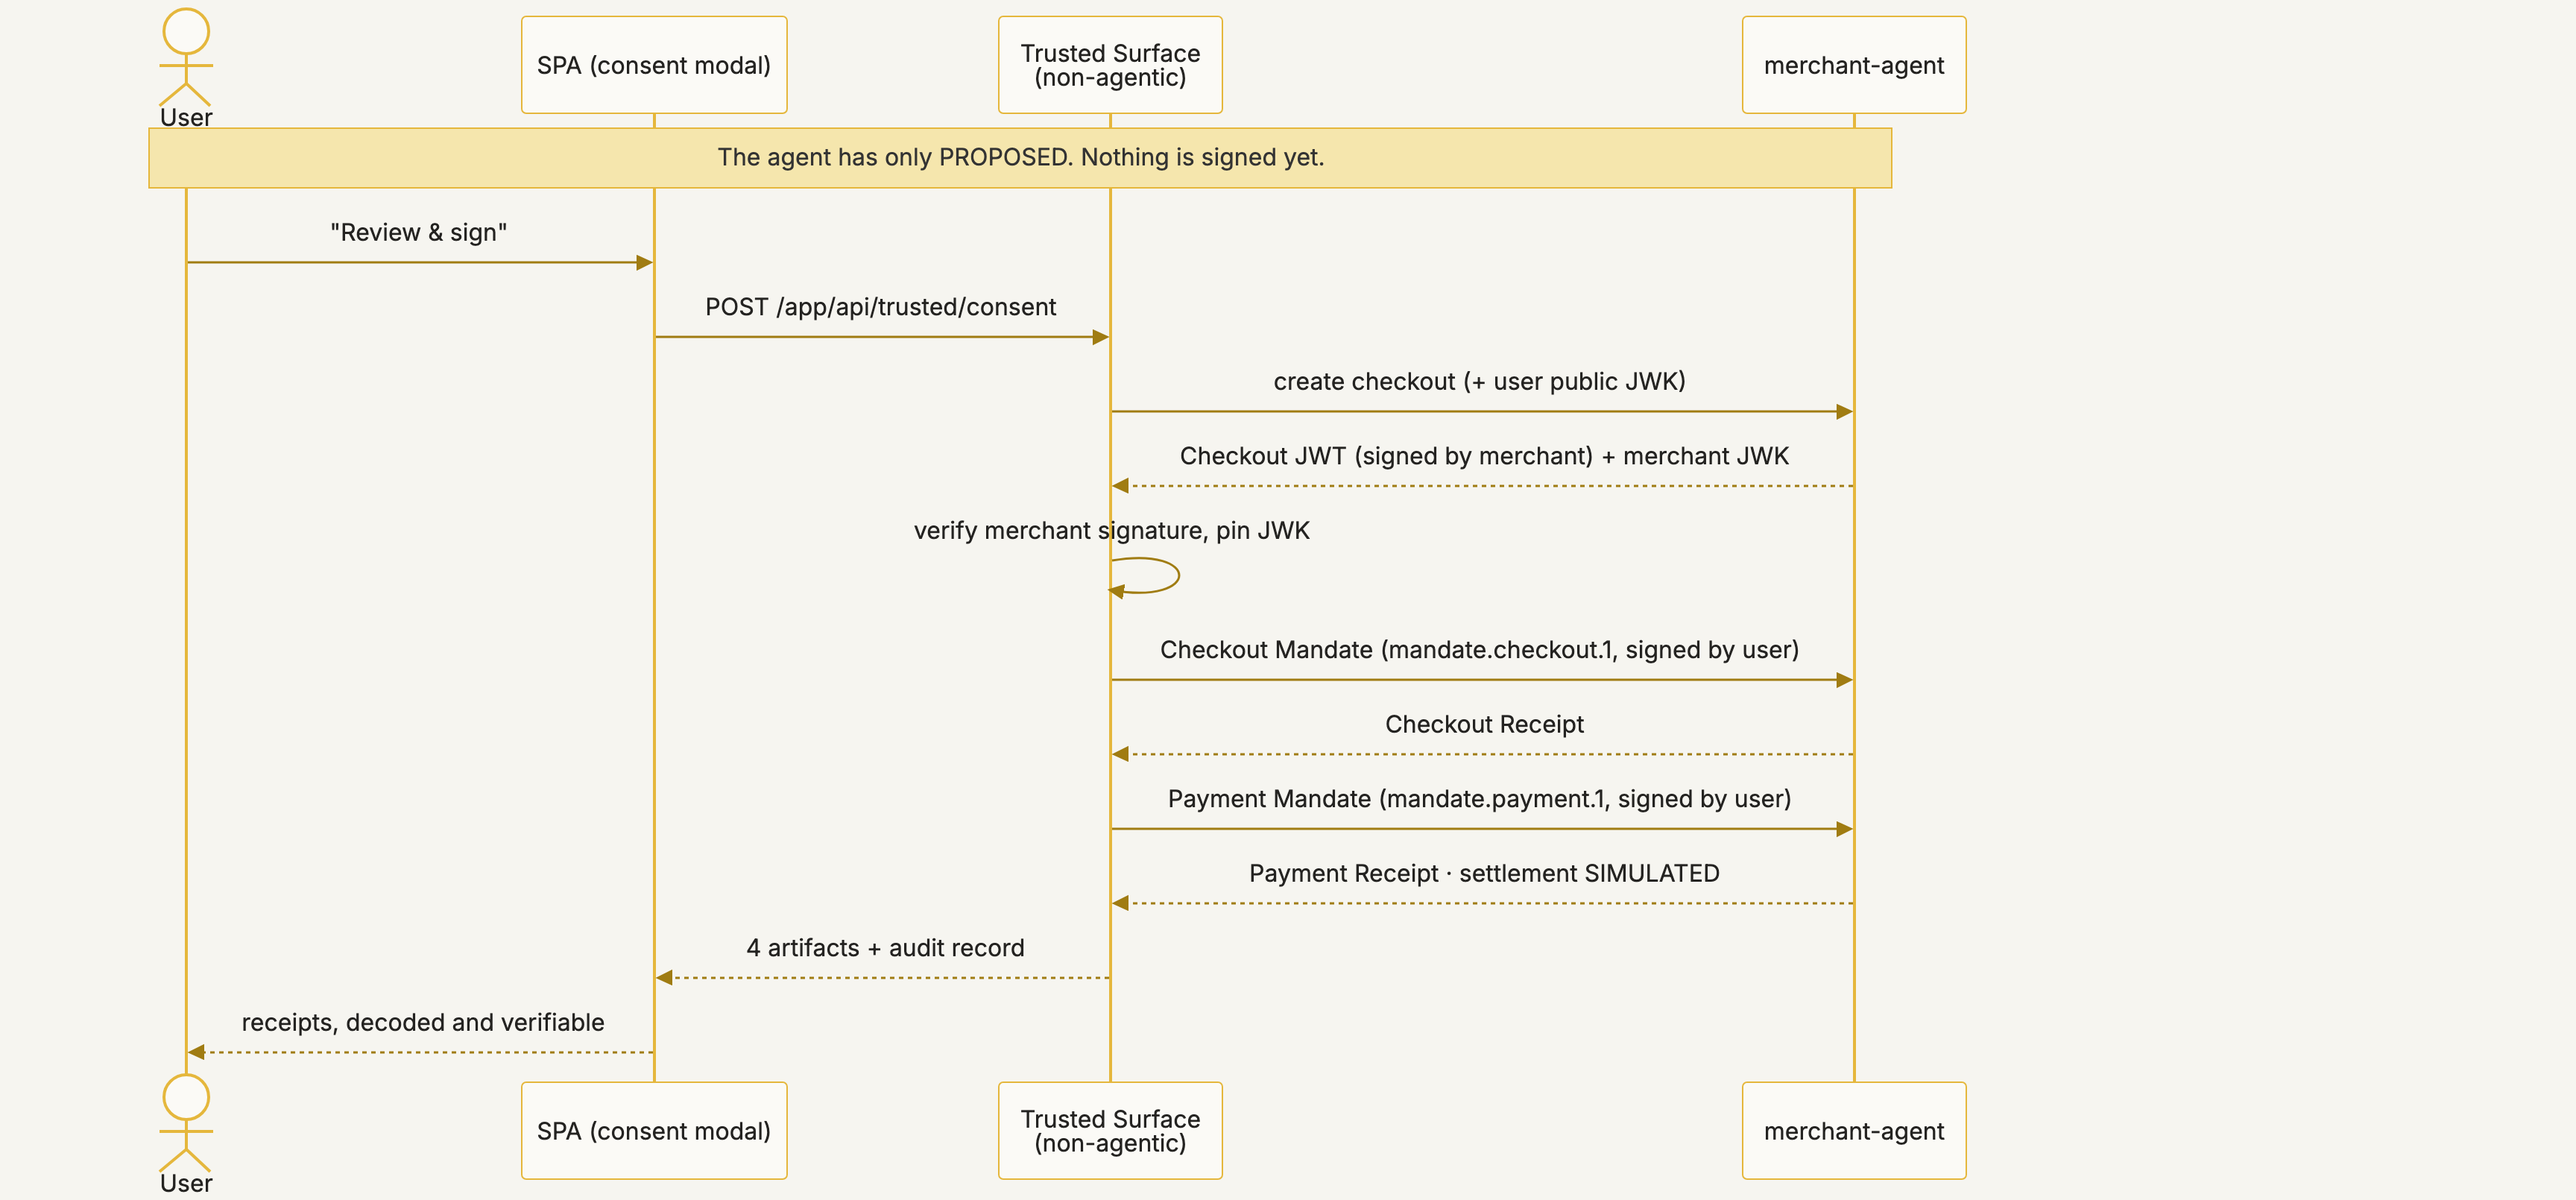
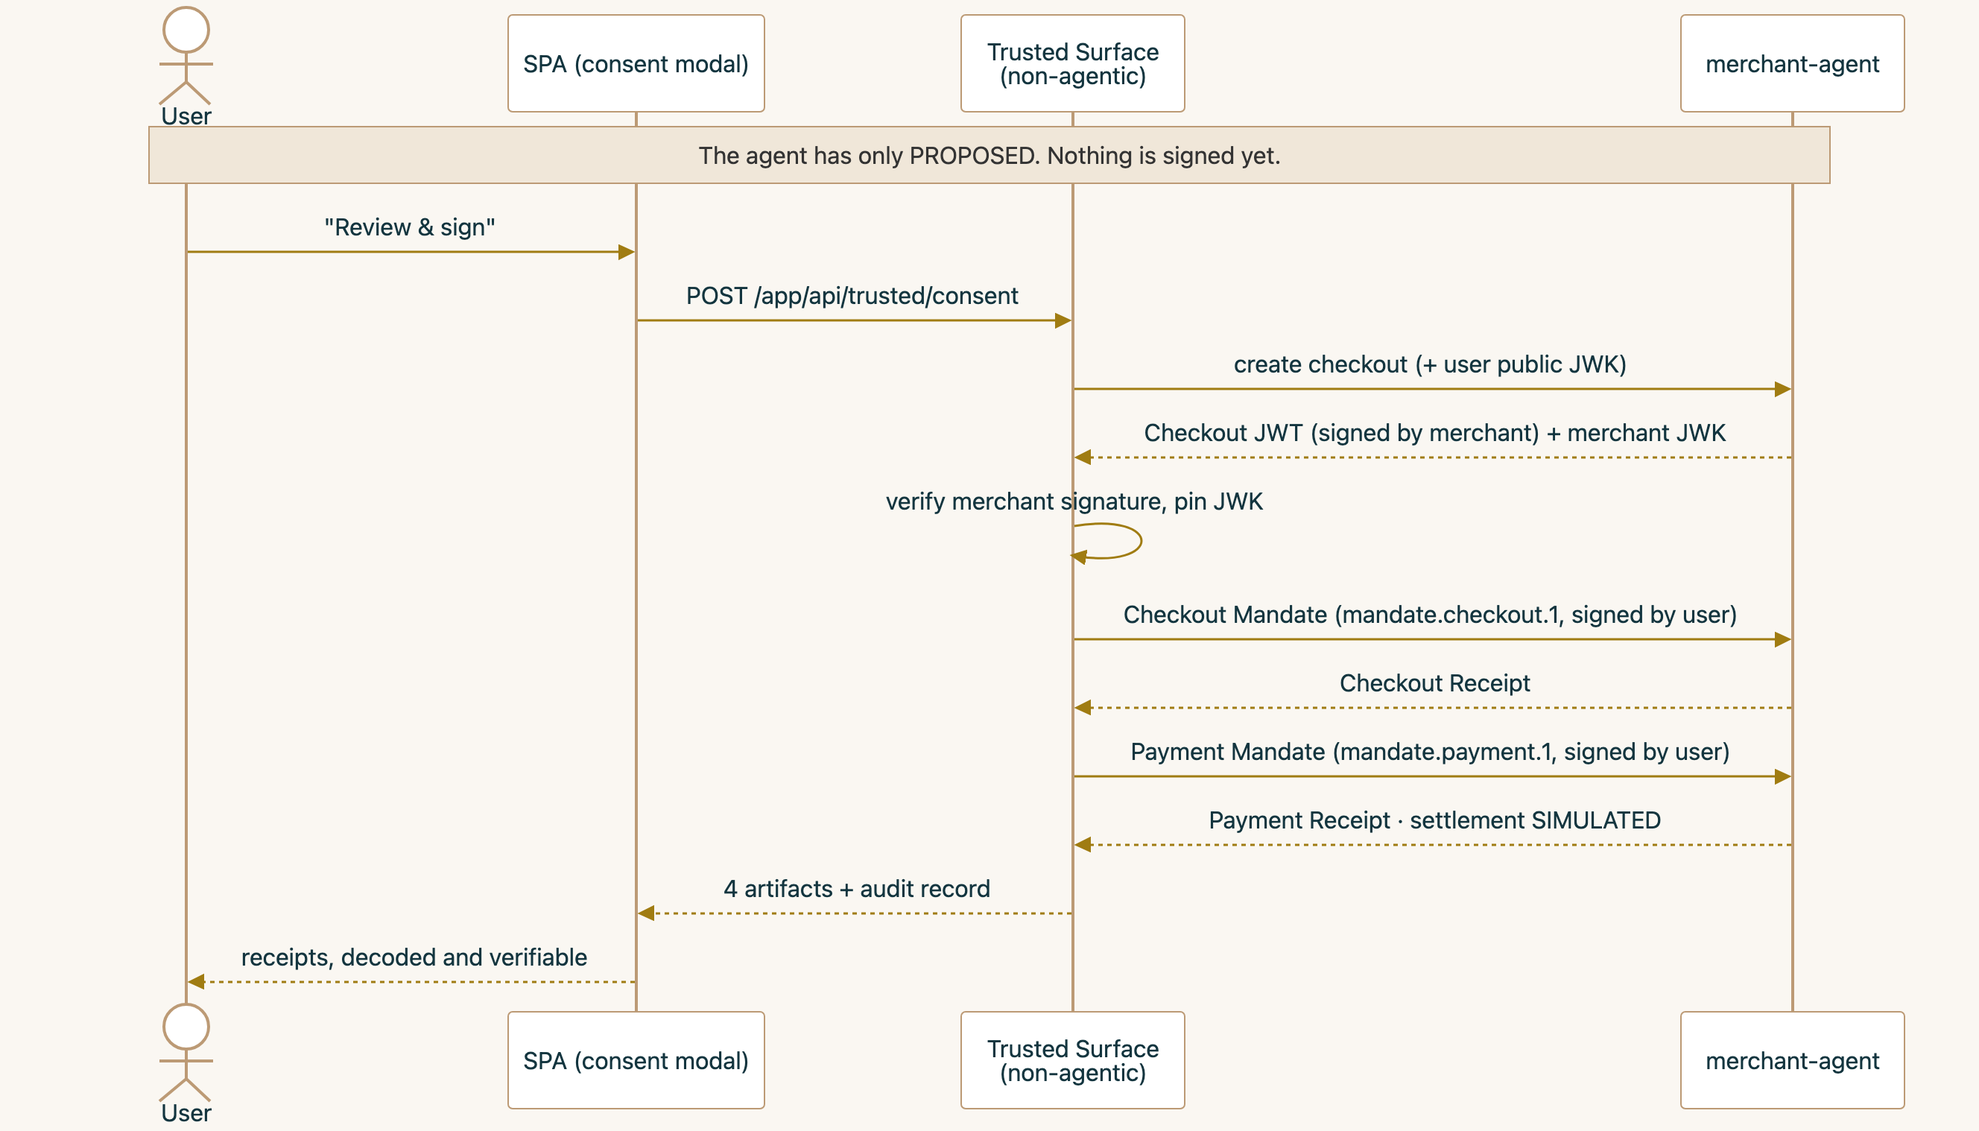
docs(architecture): the diagram catches up with voice, sessions and memory
The architecture PNG still showed the system as it was before the Live API,
Firestore sessions, Memory Bank and the calendar reader existed. The README
mermaid is the source of truth, so it grows the four missing paths — audio
straight to Gemini Live with function calls coming back to /app/api/live,
sessions in Firestore, recall and remember against Memory Bank, and the
calendar read/write — and scripts/render-diagrams.py renders it.

That script is new: the PNGs were hand-rendered until now. It reads the
README's mermaid blocks, paints them in the brand palette through the
Playwright Chromium already on the machine, and pins the SVG to its own
viewBox — mermaid's inline max-width otherwise shrinks a 3504px diagram to
the viewport and writes a postage stamp.

go.sum gains the aiplatform iampb entries: the workspace resolved them from
go.work.sum, the Docker build has no workspace, and the app image failed to
compile without them.

Claude-Session: https://claude.ai/code/session_01N2r9uSM9s7tCPnMxxDtEt6

diff --git a/scripts/render-diagrams.py b/scripts/render-diagrams.py
@@ -1,0 +1,117 @@
+#!/usr/bin/env python3
+"""Render the README's mermaid diagrams to PNGs for slides and the submission.
+
+    python3 scripts/render-diagrams.py            # both diagrams
+    python3 scripts/render-diagrams.py 0          # only the first
+
+The source of truth is the README: the first fenced ```mermaid block is the
+architecture, the second is the AP2 sequence. Rendering happens in the
+Playwright Chromium already on this machine, at 2x, with the brand palette —
+mermaid's own colours would not match the deck.
+
+Two gotchas, both learned the hard way and both handled below: initialize()
+has to run before any await (otherwise mermaid's auto-run paints with the
+default theme first), and the screenshot has to wait on document.fonts.ready
+or the titles come out clipped.
+"""
+
+import pathlib
+import re
+import sys
+
+from playwright.sync_api import sync_playwright
+
+ROOT = pathlib.Path(__file__).resolve().parent.parent
+README = ROOT / "README.md"
+OUT = ROOT / "docs" / "design"
+TARGETS = ["architecture.png", "ap2-flow.png"]
+
+# Karol Elói brand: teal ink, gold accent, warm paper.
+PAPER = "#FAF7F2"
+THEME = """{
+  startOnLoad: false,
+  theme: 'base',
+  fontFamily: '-apple-system, BlinkMacSystemFont, Inter, Segoe UI, sans-serif',
+  themeVariables: {
+    background: '%s',
+    primaryColor: '#FFFFFF',
+    primaryTextColor: '#13353F',
+    primaryBorderColor: '#BC9A75',
+    lineColor: '#A07C12',
+    secondaryColor: '#F5E6AD',
+    tertiaryColor: '#FBF8F3',
+    clusterBkg: '#FBF8F3',
+    clusterBorder: '#E4DDD0',
+    fontSize: '15px',
+    actorBkg: '#FFFFFF',
+    actorBorder: '#BC9A75',
+    actorTextColor: '#13353F',
+    signalColor: '#A07C12',
+    signalTextColor: '#13353F',
+    labelBoxBkgColor: '#F5E6AD',
+    labelBoxBorderColor: '#A07C12',
+    noteBkgColor: '#F0E7D9',
+    noteBorderColor: '#BC9A75'
+  },
+  flowchart: { curve: 'basis', htmlLabels: true, padding: 18 },
+  sequence: { useMaxWidth: false }
+}""" % PAPER
+
+PAGE = """<!doctype html>
+<html><head><meta charset="utf-8"><style>
+  body { margin: 0; padding: 28px; background: %s; }
+  #box { display: inline-block; }
+  #box svg { max-width: none !important; height: auto; }
+</style></head>
+<body><div id="box"></div>
+<script type="module">
+  import mermaid from 'https://cdn.jsdelivr.net/npm/mermaid@11/dist/mermaid.esm.min.mjs';
+  // Before any await: an auto-run would repaint this with the default theme.
+  mermaid.initialize(%s);
+  window.draw = async (src) => {
+    const { svg } = await mermaid.render('d' + Math.floor(performance.now()), src);
+    const box = document.getElementById('box');
+    box.innerHTML = svg;
+    // mermaid pins an inline max-width, which would shrink the diagram to the
+    // viewport and render a postage stamp. Pin it to its own viewBox instead.
+    const el = box.querySelector('svg');
+    const vb = el.viewBox.baseVal;
+    el.removeAttribute('style');
+    el.setAttribute('width', vb.width);
+    el.setAttribute('height', vb.height);
+    await document.fonts.ready;
+    return [vb.width, vb.height];
+  };
+</script></body></html>
+""" % (PAPER, THEME)
+
+
+def blocks() -> list[str]:
+    found = re.findall(r"```mermaid\n(.*?)```", README.read_text(), re.S)
+    if len(found) < len(TARGETS):
+        sys.exit(f"README has {len(found)} mermaid blocks, expected {len(TARGETS)}")
+    return found[: len(TARGETS)]
+
+
+def main() -> None:
+    wanted = [int(a) for a in sys.argv[1:]] or list(range(len(TARGETS)))
+    OUT.mkdir(parents=True, exist_ok=True)
+    srcs = blocks()
+
+    with sync_playwright() as p:
+        browser = p.chromium.launch()
+        page = browser.new_page(viewport={"width": 2200, "height": 1400}, device_scale_factor=2)
+        page.set_content(PAGE)
+        page.wait_for_function("() => typeof window.draw === 'function'", timeout=30_000)
+        for i in wanted:
+            size = page.evaluate("src => window.draw(src)", srcs[i])
+            print(f"  {TARGETS[i]}: {int(size[0])}x{int(size[1])} @2x")
+            page.wait_for_timeout(400)
+            dest = OUT / TARGETS[i]
+            page.locator("#box").screenshot(path=str(dest))
+            print(f"{dest.relative_to(ROOT)}  ({dest.stat().st_size // 1024} KB)")
+        browser.close()
+
+
+if __name__ == "__main__":
+    main()

diff --git a/README.md b/README.md
@@ -62,17 +62,18 @@ anything: a purchase still has to be signed on the consent screen.
 
 ```mermaid
 flowchart LR
-    U(["👤 User<br/>chat · photo · consent"])
+    U(["👤 User<br/>chat · photo · voice · consent"])
 
     subgraph APP["☁ Cloud Run · automate-me — public"]
         direction TB
-        SPA["React SPA<br/><small>dashboard · agent panel · briefing · ledger</small>"]
+        SPA["React SPA<br/><small>dashboard · agent panel · agenda · briefing · Talk</small>"]
         ADK["adkrest <code>/api</code><br/><small>/run_sse — streamed events</small>"]
-        REST["REST API <code>/app/api</code><br/><small>P&L · proposals · ledger · mandates · briefing</small>"]
+        REST["REST API <code>/app/api</code><br/><small>P&L · proposals · ledger · mandates · agenda · briefing</small>"]
+        LIVE["live endpoints <code>/app/api/live</code><br/><small>ephemeral token · tool · remember</small>"]
 
         subgraph GRAPH["ADK agent graph · gemini-3.5-flash"]
             direction TB
-            ORCH(["automate_me — orchestrator"])
+            ORCH(["automate_me — orchestrator<br/><small>preload_memory · load_memory</small>"])
             RA["routine_analyst<br/><small>interview · vision</small>"]
             AA["automation_advisor<br/><small>catalog · payback</small>"]
             DP["day_planner<br/><small>routes · weather · floods</small>"]
@@ -83,15 +84,18 @@ flowchart LR
             direction TB
             ENG["Value Engine<br/><small>int64 centavos · table-driven tests</small>"]
             BR["Briefing builder<br/><small>errgroup · 1 worker per appointment</small>"]
+            CALR["Calendar reader<br/><small>trip · remote · no-place · ignored</small>"]
             TS["Trusted Surface<br/><small>holds the user's P-256 key</small>"]
         end
 
         ST[("Store<br/><small>memory · seeded demo</small>")]
 
-        SPA --> ADK & REST
+        SPA --> ADK & REST & LIVE
         ADK --> ORCH
+        LIVE -->|"consult_specialist"| ORCH
         RA & AA --> ENG
         DP --> BR
+        BR --> CALR
         REST --> TS & BR
         GRAPH --> ST
         REST --> ST
@@ -106,6 +110,10 @@ flowchart LR
     subgraph GCP["Google Cloud"]
         direction TB
         GEM["Gemini 3.5 Flash"]
+        LIVEAPI["Gemini Live 3.1<br/><small>conversational audio</small>"]
+        MEM[("Agent Engine · Memory Bank<br/><small>facts per user_id</small>")]
+        FS[("Firestore<br/><small>ADK sessions · events · state</small>")]
+        CAL["Google Calendar<br/><small>reads the day · writes departure blocks</small>"]
         MAPS["Maps Platform<br/><small>Routes · Weather</small>"]
         SEC["Secret Manager<br/><small>google-api-key · maps-api-key</small>"]
         SCHED["Cloud Scheduler<br/><small>06:00 America/Sao_Paulo</small>"]
@@ -114,8 +122,14 @@ flowchart LR
     GEO[/"GeoSampa flood layer<br/><small>192 Civil-Defence points, embedded</small>"/]
 
     U --> SPA
+    U ==>|"🎙 audio · WebSocket with a single-use token"| LIVEAPI
+    LIVEAPI -.->|"function calls"| LIVE
     GRAPH --> GEM
+    ORCH <-->|"sessions survive the revision"| FS
+    ORCH <-->|"recall · remember the turn"| MEM
+    LIVE <-->|"recall before the first word · store the call"| MEM
     BR --> MAPS
+    CALR <--> CAL
     BR -.reads.-> GEO
     TS ==>|"AP2 over HTTP · Google ID token"| RAIL
     SCHED -->|"POST /briefing/run"| REST
@@ -124,8 +138,10 @@ flowchart LR
 
     classDef det fill:#F5E6AD,stroke:#A07C12,stroke-width:2px
     classDef ext fill:#FFFFFF,stroke:#B9B4A7,stroke-dasharray:3 3
-    class ENG,BR,TS det
-    class GEM,MAPS,SEC,SCHED,GEO ext
+    classDef mem fill:#F0E7D9,stroke:#BC9A75,stroke-width:2px
+    class ENG,BR,CALR,TS det
+    class GEM,LIVEAPI,MAPS,SEC,SCHED,GEO,CAL ext
+    class MEM,FS mem
 ```
 
 
